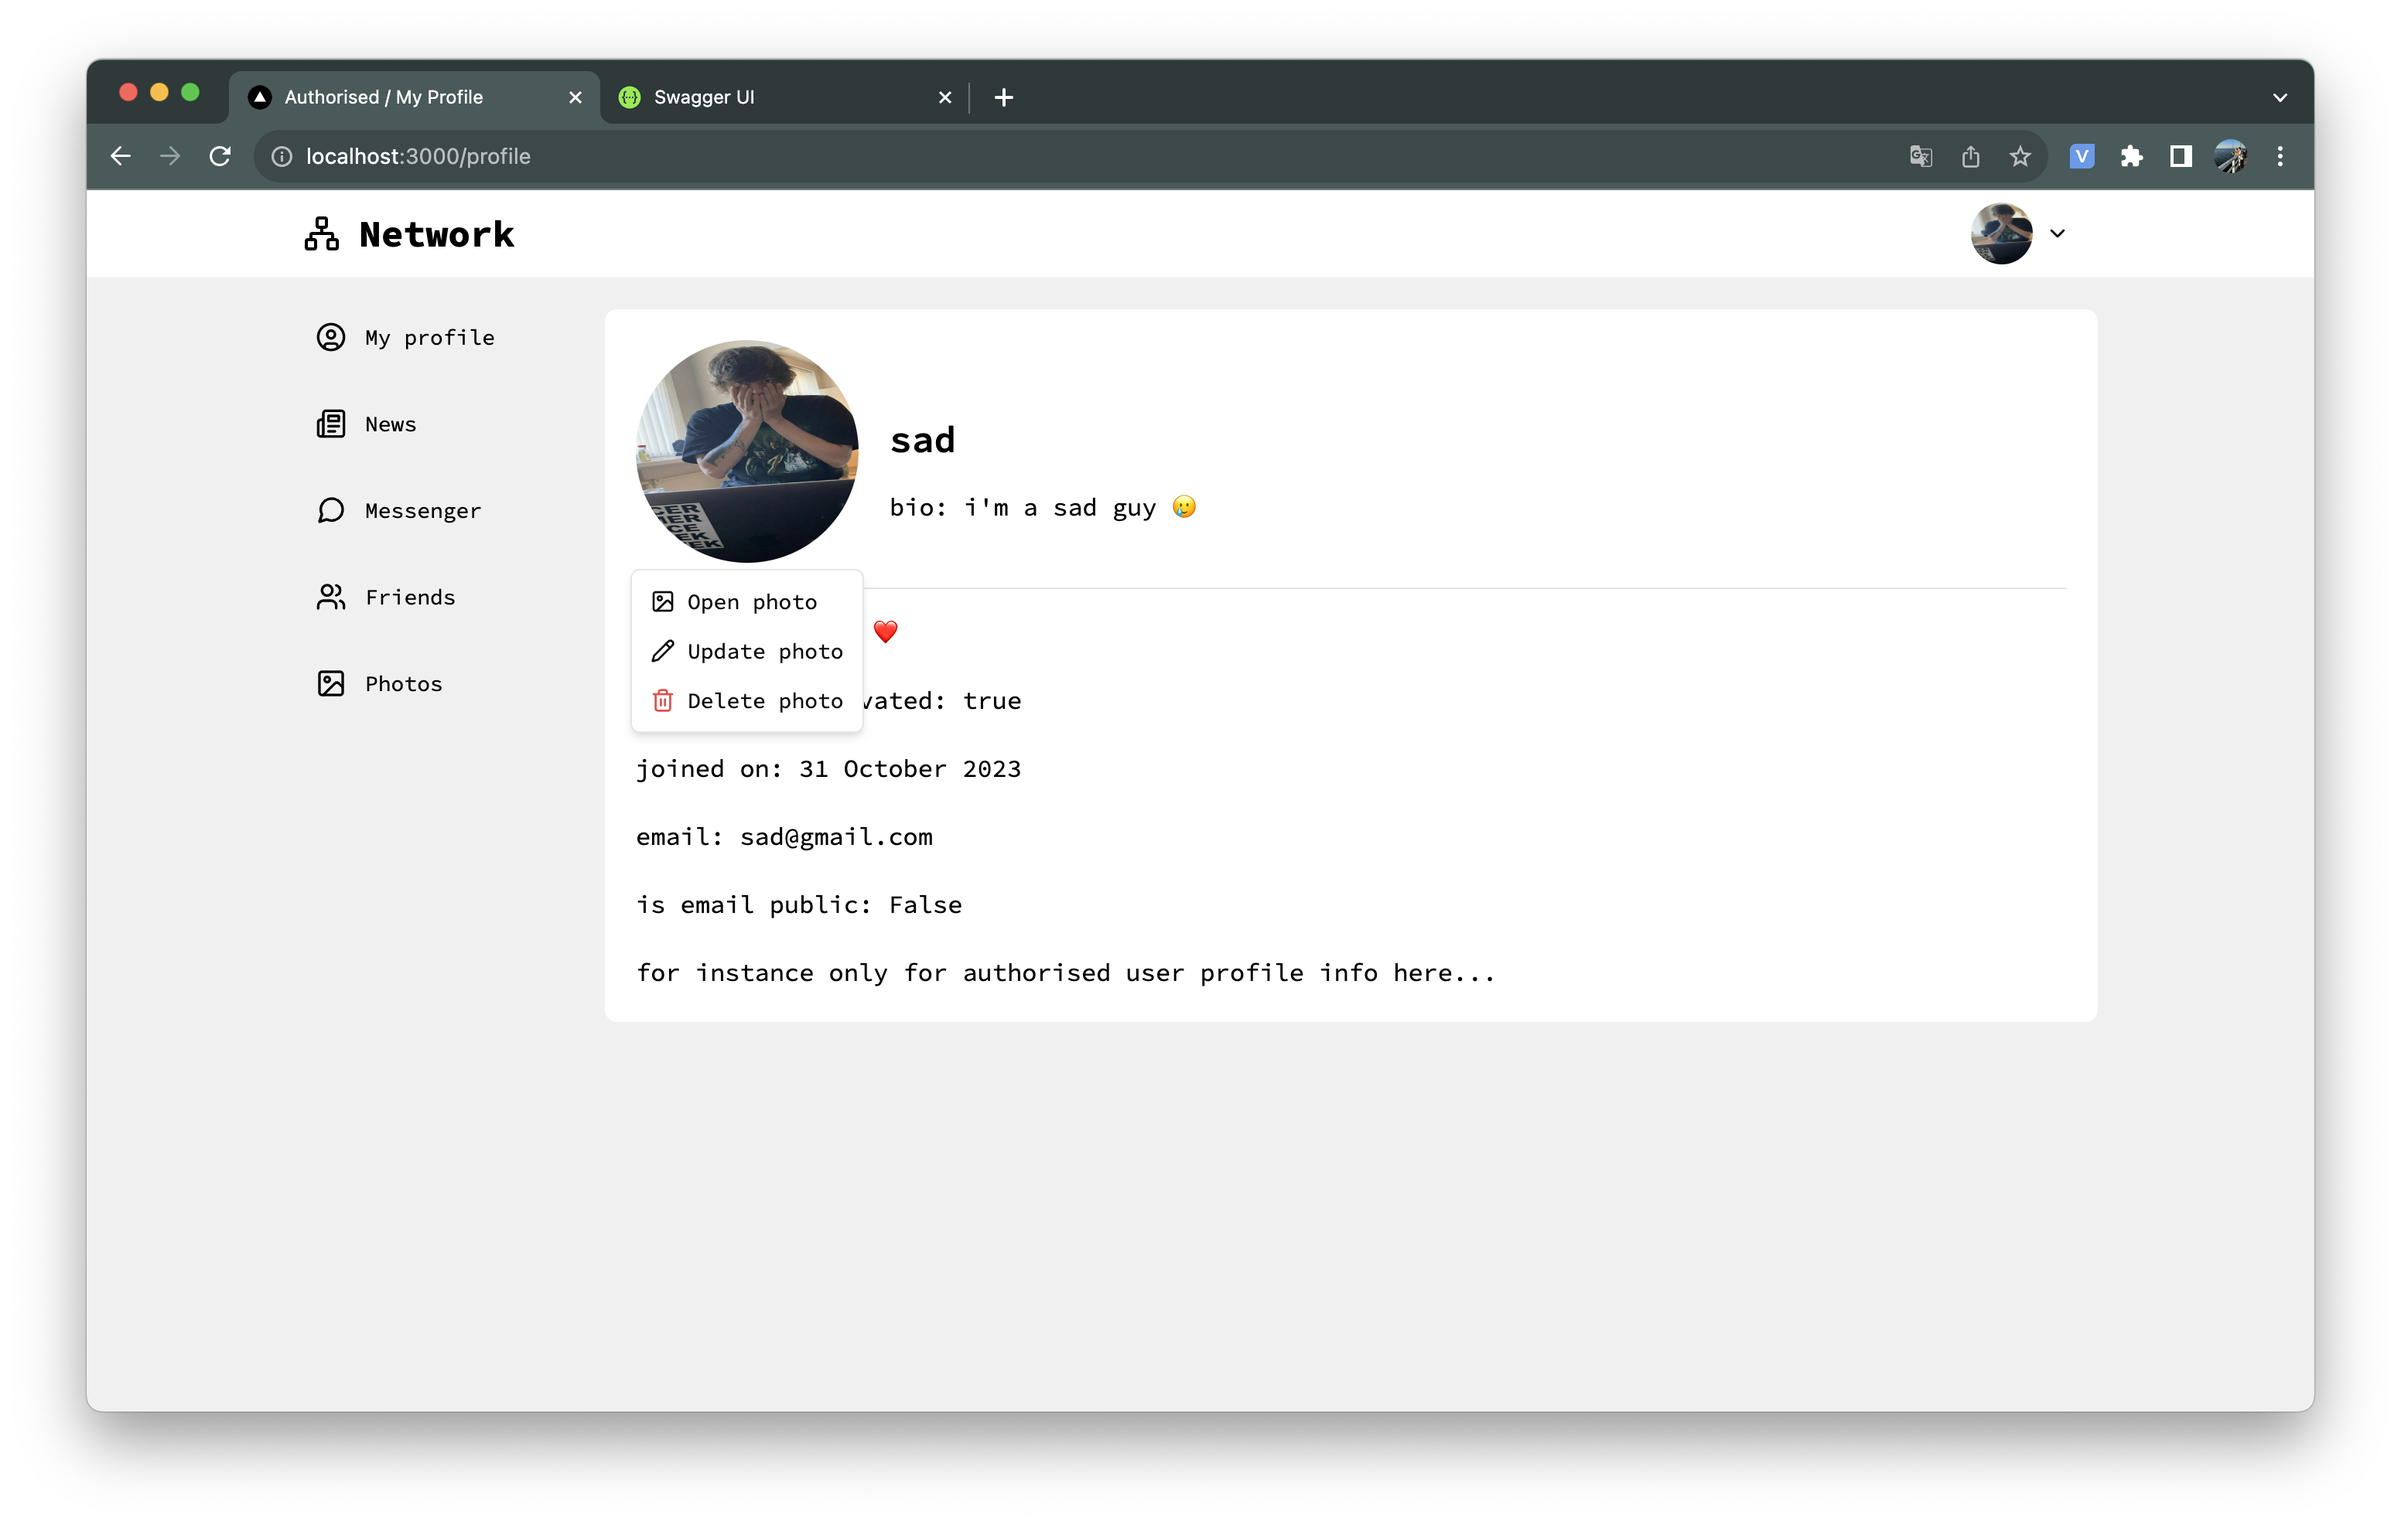
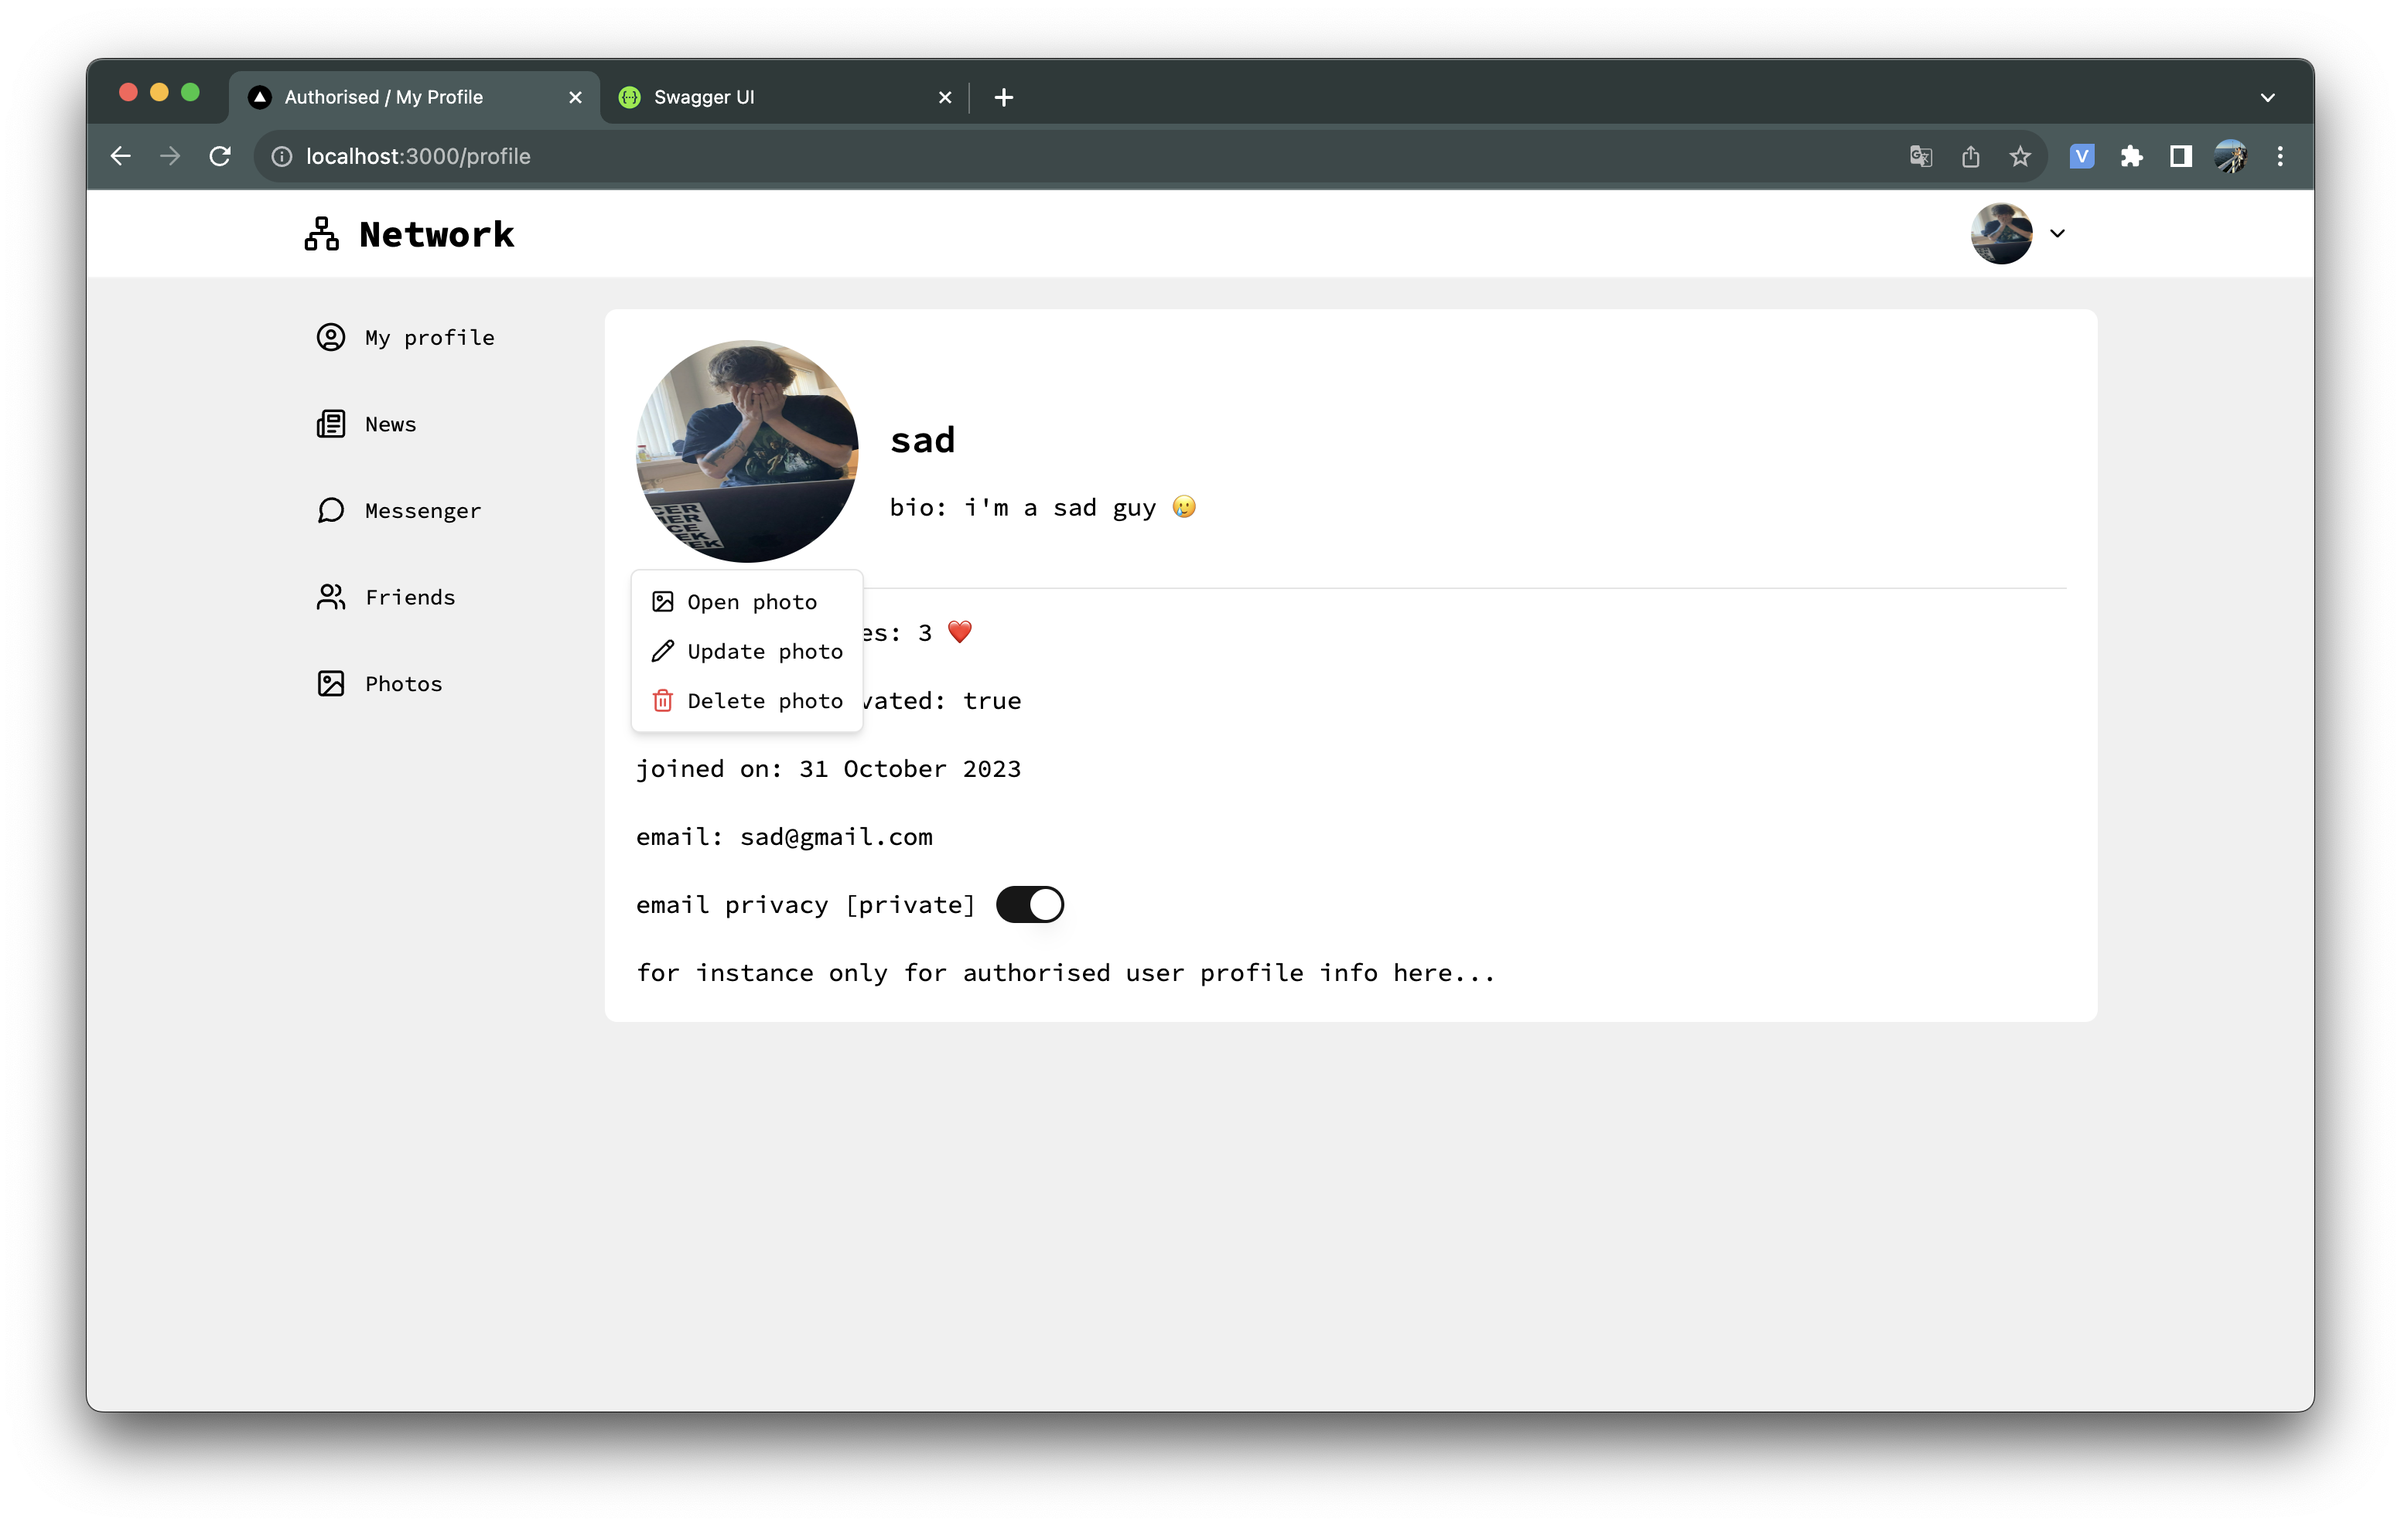
feat: now user can toogle their email privacy

Changed region(s): [[0.0312, 0.0618, 0.9688, 0.958], [0.2812, 0.5562, 0.4375, 0.618], [0.3438, 0.4017, 0.4062, 0.4326]]

diff --git a/src/components/authorised-profile.tsx b/src/components/authorised-profile.tsx
@@ -1,7 +1,8 @@
-import { FC } from 'react';
-import { useState } from 'react';
+import { FC, useState } from 'react';
+import { useRouter } from 'next/router';
 import { Pencil, Trash2, Upload, Image } from 'lucide-react';
 
+import { Switch } from '@/components/ui/switch';
 import { Separator } from '@/components/ui/separator';
 import {
   DropdownMenu,
@@ -29,10 +30,13 @@ import { useCommonActions } from '@/hooks/use-common-actions';
 import { AuthorisedUser } from '@/lib/types';
 import { DROPDOWN_MENU_ICON_STYLES } from '@/lib/constants';
 import { formatDate } from '@/lib/utils';
+import { toogleAuthorizedUserEmailPrivacy } from '@/api/users';
 
 export const AuthorisedProfile: FC<AuthorisedUser> = (me) => {
   const [open, setOpen] = useState(false);
   const [bio, setBio] = useState('');
+
+  const router = useRouter();
 
   const { openPhoto } = useCommonActions();
 
@@ -136,9 +140,21 @@ export const AuthorisedProfile: FC<AuthorisedUser> = (me) => {
         <li>{`is profile activated: ${me.profile.isActivated}`}</li>
         <li>{`joined on: ${formatDate(me.profile.createdAt)}`}</li>
         <li>{`email: ${me.contacts.email.contact}`}</li>
-        <li>{`is email public: ${
-          me.contacts.email.isPublic ? 'True' : 'False'
-        }`}</li>
+        <li className='flex items-center gap-3'>
+          <span>{`email privacy [${
+            me.contacts.email.isPublic ? 'public' : 'private'
+          }]`}</span>
+          <div className='flex items-center gap-3'>
+            <Switch
+              checked={!me.contacts.email.isPublic}
+              onCheckedChange={async () => {
+                await toogleAuthorizedUserEmailPrivacy();
+
+                router.replace(router.asPath);
+              }}
+            />
+          </div>
+        </li>
         <li>{`for instance only for authorised user profile info here...`}</li>
       </ul>
     </div>

diff --git a/src/api/users.ts b/src/api/users.ts
@@ -29,6 +29,14 @@ const getAuthorizedUserUsername = async () => {
   return data;
 };
 
+const toogleAuthorizedUserEmailPrivacy = async () => {
+  await axiosApiInstance.patch<{
+    email: {
+      isPublic: boolean;
+    };
+  }>('/users/me/contacts/email/privacy');
+};
+
 // ^^^ ------------------authorized------------------ ^^^
 
 const getNetworkUserPublicAvailableData = async (username: string) => {
@@ -43,5 +51,6 @@ export {
   getAuthorizedUserData,
   getNetworkUserPublicAvailableData,
   getAuthorizedUserUsername,
+  toogleAuthorizedUserEmailPrivacy,
   getAuthorizedUserUsernameAndAvatar
 };

diff --git a/src/components/header.tsx b/src/components/header.tsx
@@ -119,7 +119,7 @@ const Header = () => {
                       username={data?.username || 'Unknown'}
                       avatar={data?.avatar?.name}
                     />
-                    <ChevronDown size={16} />
+                    <ChevronDown className='h-4 w-4' />
                   </div>
                 </DropdownMenuTrigger>
                 <DropdownMenuContent align='center' className='w-52'>
